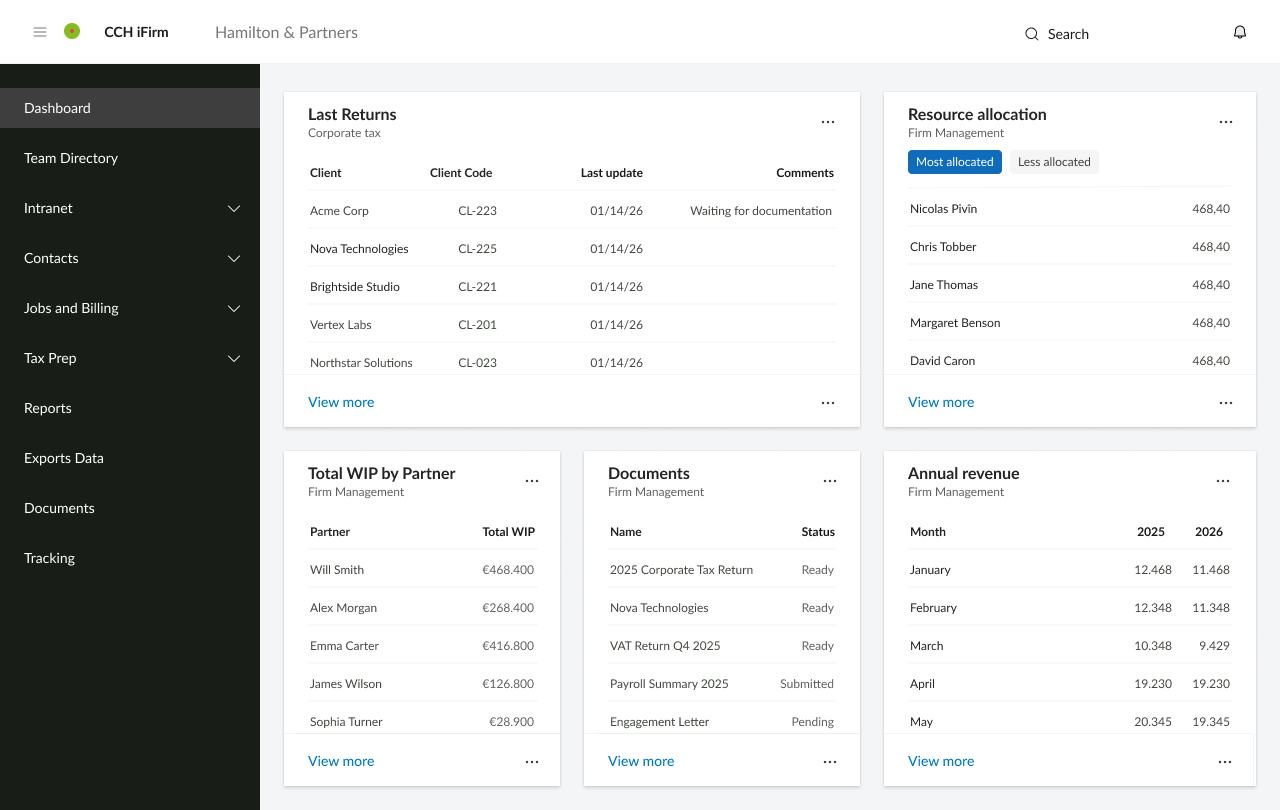
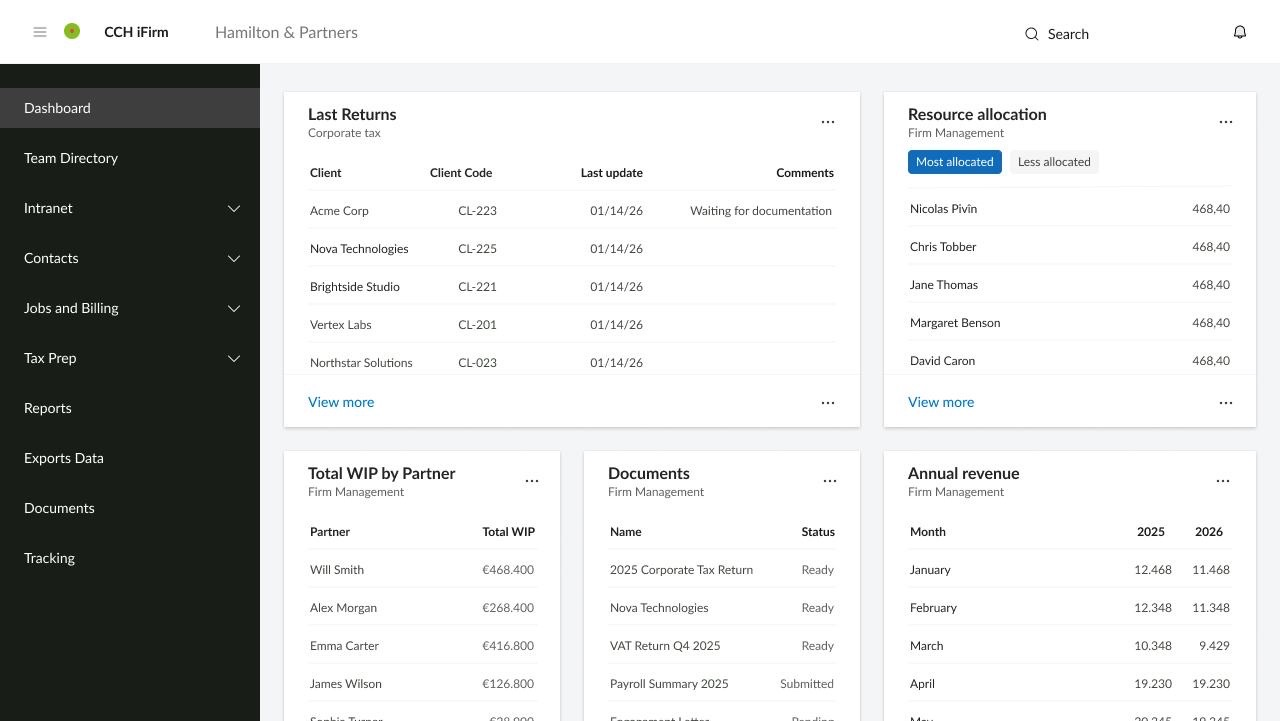
Igualar las dos capturas del contexto y reescribir el desenlace
La de la izquierda era 1536x866 y la de la derecha 1280x810: en dos columnas
iguales acababan a alturas distintas y los pies bailaban. La derecha se
recorta a la proporcion de la izquierda. Las dos miden ahora 548x309 y los
pies caen a la misma altura.

'Months / Of development saved' se leia como una metrica rota. El hecho es el
mismo y no hace falta inventar ninguna cifra: meses de esfuerzo de desarrollo
evitados.

diff --git a/story1-case-study.html b/story1-case-study.html
@@ -40,7 +40,7 @@ j=d.createElement(s),dl=l!='dataLayer'?'&l='+l:'';j.async=true;j.src=
   decoding="async" alt="..."> y su <figcaption>.
 -->
 
-<link rel="stylesheet" href="tokens.css?v=65">
+<link rel="stylesheet" href="tokens.css?v=66">
 <style>
 @font-face{font-family:'Libertinus Serif';font-weight:400;font-style:normal;font-display:swap;src:url(fonts/libertinus-serif-latin-400-normal.woff2) format('woff2')}
 @font-face{font-family:'Libertinus Serif';font-weight:400;font-style:italic;font-display:swap;src:url(fonts/libertinus-serif-latin-400-italic.woff2) format('woff2')}
@@ -882,7 +882,7 @@ height="0" width="0" style="display:none;visibility:hidden"></iframe></noscript>
       <div class="stat"><b>6</b><i>Products unified</i></div>
       <div class="stat"><b>5</b><i>Markets</i></div>
       <div class="stat"><b>1</b><i>Shared design system</i></div>
-      <div class="stat"><b>Months</b><i>Of development saved</i></div>
+      <div class="stat"><b>Months</b><i>of development effort avoided</i></div>
     </div>
 
     <div class="hero-meta rv" data-d="3">
@@ -919,7 +919,7 @@ height="0" width="0" style="display:none;visibility:hidden"></iframe></noscript>
         <figcaption>On-premise</figcaption>
       </figure>
       <figure class="rv" data-d="1">
-        <img class="figimg" src="images/s1-cloud.jpg" width="1280" height="810" loading="lazy" decoding="async"
+        <img class="figimg" src="images/s1-cloud.jpg?v=2" width="1280" height="721" loading="lazy" decoding="async"
              alt="The cloud product: a single CCH iFirm dashboard gathering last returns, resource allocation, work in progress, documents and annual revenue.">
         <figcaption>One environment</figcaption>
       </figure>
@@ -1280,7 +1280,7 @@ height="0" width="0" style="display:none;visibility:hidden"></iframe></noscript>
       </div>
       <div>
         <span class="k">Business and delivery</span>
-        <h3>Months of development saved</h3>
+        <h3>Months of development effort avoided</h3>
         <p>Testing the direction with customers before it was built is what produced the saving. The evidence supported the simplest of the three proposals, so the team never spent the months the more ambitious options would have cost, and still solved the core problem.</p>
       </div>
     </div>

diff --git a/index.html b/index.html
@@ -19,8 +19,8 @@ j=d.createElement(s),dl=l!='dataLayer'?'&l='+l:'';j.async=true;j.src=
 <link rel="apple-touch-icon" sizes="180x180" href="images/apple-touch-icon.png">
 <title>Laura Benavente · Senior Product Designer</title>
 <meta name="description" content="Senior Product Designer focused on complex B2B SaaS systems and AI-native experiences.">
-<link rel="stylesheet" href="tokens.css?v=65">
-<link rel="stylesheet" href="styles.css?v=65">
+<link rel="stylesheet" href="tokens.css?v=66">
+<link rel="stylesheet" href="styles.css?v=66">
 </head>
 <body>
 <!-- Google Tag Manager (noscript) -->
@@ -336,7 +336,7 @@ height="0" width="0" style="display:none;visibility:hidden"></iframe></noscript>
       <p class="story-hero__eyebrow">Story 1</p>
       <h2 class="story-hero__title">Wolters Kluwer<br>ecosystem</h2>
       <p class="story-hero__standfirst">Designing a cloud ecosystem for tax professionals</p>
-      <p class="story-hero__result">Months of development saved</p>
+      <p class="story-hero__result">Months of development effort avoided</p>
       <ul class="story-hero__tags">
           <li>Product design</li>
           <li>B2B SaaS</li>
@@ -511,6 +511,6 @@ height="0" width="0" style="display:none;visibility:hidden"></iframe></noscript>
   </svg>
 </div>
 
-<script src="main.js?v=65"></script>
+<script src="main.js?v=66"></script>
 </body>
 </html>

diff --git a/story2-case-study.html b/story2-case-study.html
@@ -40,7 +40,7 @@ j=d.createElement(s),dl=l!='dataLayer'?'&l='+l:'';j.async=true;j.src=
   decoding="async" alt="..."> y su <figcaption>.
 -->
 
-<link rel="stylesheet" href="tokens.css?v=65">
+<link rel="stylesheet" href="tokens.css?v=66">
 <style>
 @font-face{font-family:'Libertinus Serif';font-weight:400;font-style:normal;font-display:swap;src:url(fonts/libertinus-serif-latin-400-normal.woff2) format('woff2')}
 @font-face{font-family:'Libertinus Serif';font-weight:400;font-style:italic;font-display:swap;src:url(fonts/libertinus-serif-latin-400-italic.woff2) format('woff2')}

diff --git a/story3-case-study.html b/story3-case-study.html
@@ -40,7 +40,7 @@ j=d.createElement(s),dl=l!='dataLayer'?'&l='+l:'';j.async=true;j.src=
   decoding="async" alt="..."> y su <figcaption>.
 -->
 
-<link rel="stylesheet" href="tokens.css?v=65">
+<link rel="stylesheet" href="tokens.css?v=66">
 <style>
 @font-face{font-family:'Libertinus Serif';font-weight:400;font-style:normal;font-display:swap;src:url(fonts/libertinus-serif-latin-400-normal.woff2) format('woff2')}
 @font-face{font-family:'Libertinus Serif';font-weight:400;font-style:italic;font-display:swap;src:url(fonts/libertinus-serif-latin-400-italic.woff2) format('woff2')}
